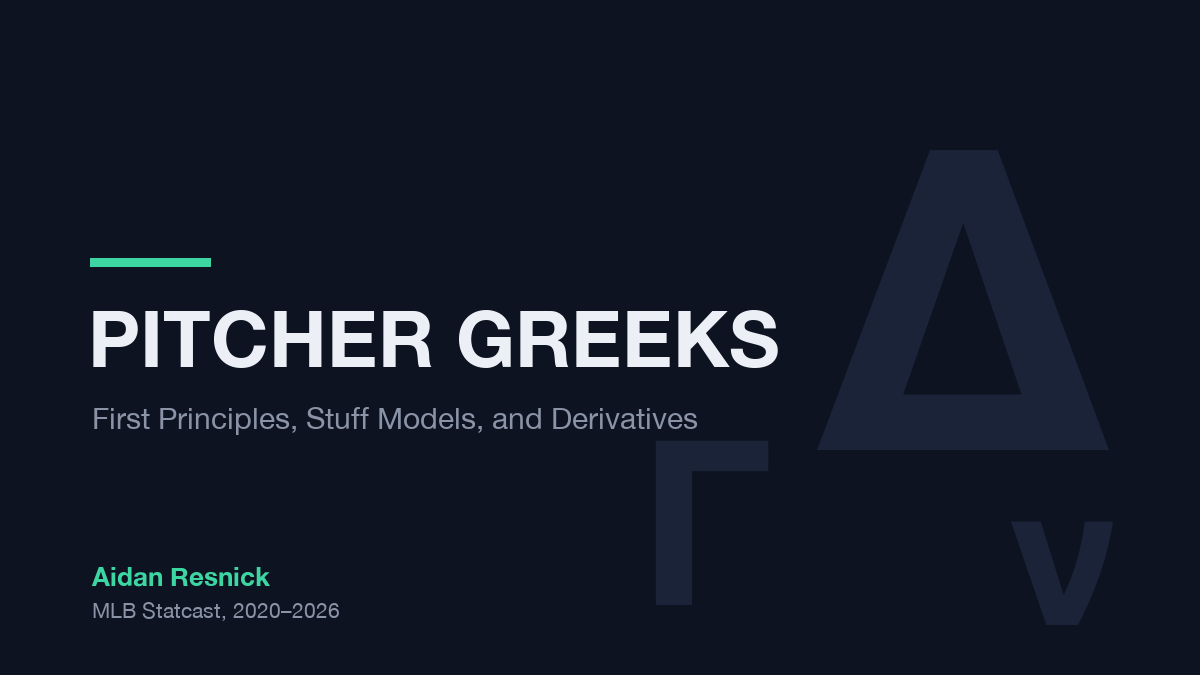
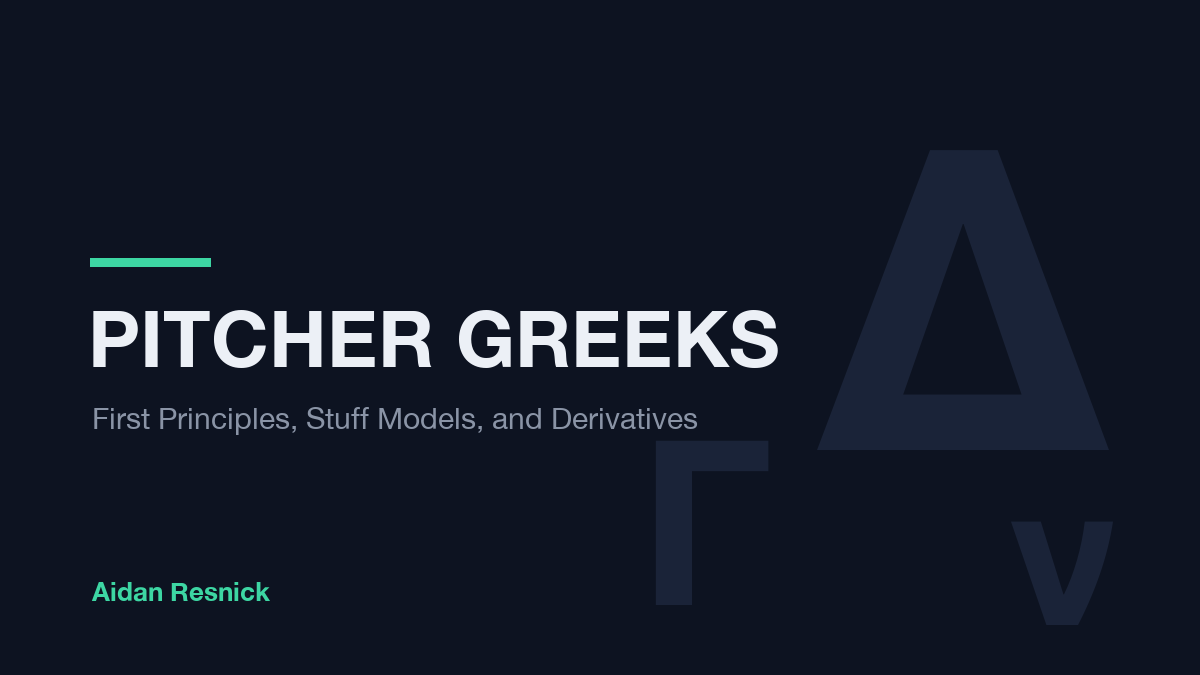
Cover on listing card only; drop Statcast line from cover

Changed region(s): [[0.0617, 0.84, 0.2775, 0.9333]]

diff --git a/content/publications/pitcher-greeks/index.md b/content/publications/pitcher-greeks/index.md
@@ -14,6 +14,8 @@ summary: |
 
 featured: true
 reading_time: false
+image:
+  preview_only: true
 ---
 
 ## 1. Introduction
